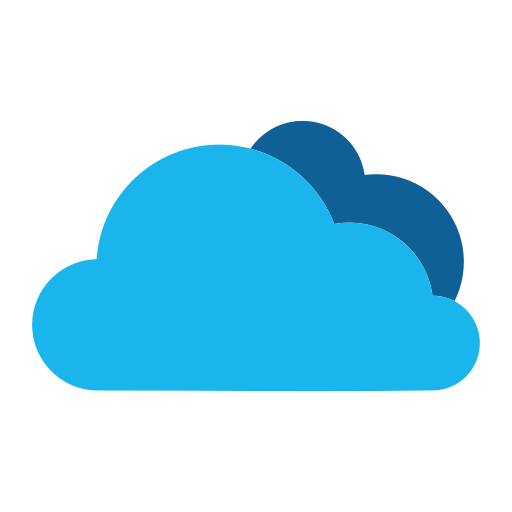
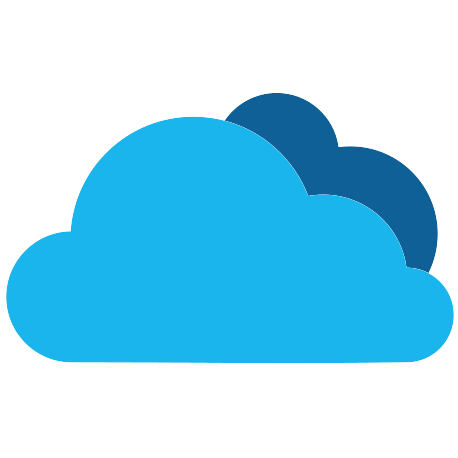
Update weather API UI and functionality

Changed region(s): [[0.0, 0.1834, 1.0, 0.7948]]

diff --git a/11-weatherApi/style.css b/11-weatherApi/style.css
@@ -5,13 +5,19 @@
 }
 
 body {
-    font-family: system-ui, -apple-system, BlinkMacSystemFont, 'Segoe UI', Roboto, Oxygen, Ubuntu, Cantarell, 'Open Sans', 'Helvetica Neue', sans-serif;
+    font-family: system-ui, -apple-system, BlinkMacSystemFont, "Segoe UI",
+        Roboto, Oxygen, Ubuntu, Cantarell, "Open Sans", "Helvetica Neue",
+        sans-serif;
     color: #fff;
-    background: linear-gradient(to bottom, #0ee8e2, #0a5025);
+    background-image: url("https://bit.ly/3Srk0M6");
     background-repeat: no-repeat;
-    min-height: 100vh; 
+    background-size: cover;
+    background-position: center;
+    min-height: 100vh;
     display: flex;
     justify-content: center;
+    align-items: center;
+    margin: 0 auto;
     /* align-items: center; */
 }
 
@@ -23,53 +29,74 @@ img {
 
 .container {
     width: 500px;
-    height: fit-content;
-    margin: 1rem auto;
-    padding: 2rem;
-    background: linear-gradient(45deg, #04f24b 5%, #00d4ff 40%, #02badf 100%);
+    padding: 2rem 0;
+    overflow: hidden;
+
+    background: linear-gradient(to bottom, #0d2143d5, #5c045292);
+    background-repeat: no-repeat;
+    background-size: cover;
+    background-position: center;
     box-shadow: rgba(0, 0, 0, 0.35) 0px 5px 15px;
     display: flex;
     flex-direction: column;
     gap: 1rem;
-    
+    border-radius: 10px;
+    margin: 0 auto;
 
     h1 {
         text-align: center;
         margin-bottom: 2rem;
+
+        span {
+            color: #b901a3;
+            text-decoration: underline #fff 2px;
+            text-underline-offset: 10px;
+            text-shadow: 1px 1px 20px #000;
+        }
     }
 
     .search {
         width: 80%;
-        margin: 1rem auto;
+        margin: 0rem auto;
         display: flex;
-        flex-direction: column;
-        gap: 0.5rem;
+        /* flex-direction: column; */
 
         #city {
-            padding: 10px;
+            padding: 0.8rem;
+            border-top-left-radius: 5px;
+            border-bottom-left-radius: 5px;
+            font-size: 1rem;
 
-            width: 100%;
-            box-shadow: rgba(50, 50, 93, 0.25) 0px 6px 12px -2px, rgba(0, 0, 0, 0.3) 0px 3px 7px -3px;
+            width: 80%;
+            box-shadow: rgba(50, 50, 93, 0.25) 0px 6px 12px -2px,
+                rgba(0, 0, 0, 0.3) 0px 3px 7px -3px;
             outline: none;
             border: none;
 
             &:focus {
-                outline: 2px solid #4978f8;
+                outline: 2px solid #b901a3;
             }
         }
 
         #my-button {
             padding: 10px 20px;
             border: transparent;
-            background-color: #4978f8;
-            
+            background-color: #b901a3;
+            font-size: 1rem;
+            font-weight: 700;
+            text-transform: uppercase;
+            border-top-right-radius: 5px;
+            border-bottom-right-radius: 5px;
+            letter-spacing: 1px;
+
             color: #fff;
-            width: 100%;
-            box-shadow: rgba(50, 50, 93, 0.25) 0px 6px 12px -2px, rgba(0, 0, 0, 0.3) 0px 3px 7px -3px;
+            width: 40%;
+            box-shadow: rgba(50, 50, 93, 0.25) 0px 6px 12px -2px,
+                rgba(0, 0, 0, 0.3) 0px 3px 7px -3px;
 
             &:hover {
                 cursor: pointer;
-                background-color: #025a6a;
+                background-color: #970283;
                 box-shadow: none;
             }
         }
@@ -78,11 +105,17 @@ img {
 
 .weather {
     min-width: 400px;
-    padding-top: 1rem;
 
     h2 {
         text-align: center;
         font-size: 3rem;
+    }
+
+    h3 {
+        text-align: center;
+        font-size: 1.2rem;
+        font-weight: 500;
+        margin-top: -10px;
     }
 
     .weather-info {
@@ -97,18 +130,30 @@ img {
         }
 
         .weather-icon {
-            width: 300px;
-            margin-bottom: 1rem;
+            width: 150px;
+            margin-bottom: 1.5rem;
+        }
+
+        .weather-sunrise-sunset {
+            display: flex;
+            justify-content: center;
+            gap: 1rem;
         }
 
         .temp {
             font-size: 6rem;
-            margin-bottom: 2rem;
+            margin: 2rem;
         }
 
         .temperatures {
             display: flex;
             gap: 1rem;
+
+            .temperatures-minmax {
+                background-color: #5c0452da;
+                padding: 0.5rem 1.5rem;
+                border-radius: 25px;
+            }
         }
 
         p {
@@ -117,9 +162,21 @@ img {
         }
 
         .wind-humidity {
+            display: flex;
+            justify-content: center;
+            gap: 1rem;
             p {
                 text-align: justify;
+                font-size: 1.2rem;
             }
         }
+    }
+}
+
+@media only screen and (max-width: 456px) {
+    .container {
+        height: 100vh;
+        border-radius: 0px;
+        margin: 0 auto;
     }
 }

diff --git a/11-weatherApi/main.js b/11-weatherApi/main.js
@@ -3,39 +3,66 @@ const url = `https://api.openweathermap.org/data/2.5/weather?appid=${apiKey}&uni
 
 const form = document.getElementById("search");
 const weatherDiv = document.querySelector(".weather");
+const container = document.querySelector(".container");
+const body = document.querySelector("body");
 
 //functions
 async function fetchWeatherByCity(url) {
-  try {
-    const response = await fetch(url);
-    const data = await response.json();
-    return data;
-  } catch (error) {
-    console.log(error.message);
-    return error;
-  }
+    try {
+        const response = await fetch(url);
+        const data = await response.json();
+        return data;
+    } catch (error) {
+        console.log(error.message);
+        return error;
+    }
 }
+/* sys
+: 
+{type: 2, id: 2075535, country: 'GB', sunrise: 1706859501, sunset: 1706892588} 
 
+Show me the date in this format: 07:00 or 16:35*/
 function actualWeatherRender(data) {
-  console.log(data.weather[0].main);
-  weatherDiv.innerHTML = `
+    console.log(data.weather[0].main);
+    weatherDiv.innerHTML = `
         <h2>${data.name}</h2>
+        <h3>(${data.sys.country})</h3>
         <div class="weather-info">
+        
             <div class="weather-icon">
                 <img src="./utilities/images/${
-                  data.weather[0].main
+                    data.weather[0].main
                 }.png" alt = "" />
             </div>
-            <div>
+
+            
+            <div class="temp-container">
                 <p class="temp">${Math.round(data.main.temp)}°C</p>
+
                 <div class="temperatures">
-                    <p><strong>Min:</strong> ${Math.round(
-                      data.main.temp_min
+                    <p class="temperatures-minmax"><strong>Min:</strong> ${Math.round(
+                        data.main.temp_min
                     )}°C</p>
-                    <p><strong>Max:</strong> ${Math.round(
-                      data.main.temp_max
+                    <p class="temperatures-minmax"><strong>Max:</strong> ${Math.round(
+                        data.main.temp_max
                     )}°C</p>
                 </div>
+            </div>
+
+            <div class="weather-sunrise-sunset">
+                <p><strong>Sunrise:</strong> ${new Date(
+                    data.sys.sunrise * 1000
+                ).toLocaleTimeString("en-GB", {
+                    hour: "2-digit",
+                    minute: "2-digit",
+                })}</p>
+                <p><strong>Sunset:</strong> ${new Date(
+                    data.sys.sunset * 1000
+                ).toLocaleTimeString("en-GB", {
+                    hour: "2-digit",
+                    minute: "2-digit",
+                })}</p>
+                
             </div>
             <div class="wind-humidity">
                 <p><strong>Humidity:</strong> ${data.main.humidity}%</p>
@@ -44,17 +71,29 @@ function actualWeatherRender(data) {
         </div>
 
     `;
+
+    if (data.weather[0].main === "Clouds") {
+        body.style.backgroundImage = "url('https://bit.ly/48PdDcB')";
+    } else if (data.weather[0].main === "Clear") {
+        body.style.backgroundImage = "url('https://bit.ly/42quDnh')";
+    } else if (data.weather[0].main === "Rain") {
+        body.style.backgroundImage = "url('https://bit.ly/4bjmqFl')";
+    } else if (data.weather[0].main === "Snow") {
+        body.style.backgroundImage = "url('https://bit.ly/3w18Gik')";
+    } else if (data.weather[0].main === "Mist") {
+        body.style.backgroundImage = "url('https://bit.ly/49kfAha')";
+    }
 }
 
 // event listener
 form.addEventListener("submit", async (event) => {
-  event.preventDefault();
-  const city = document.getElementById("city").value;
-  const data = await fetchWeatherByCity(url + city);
-  console.log(data);
-  if (parseInt(data.cod) < 400) {
-    actualWeatherRender(data);
-  } else {
-    weatherDiv.innerHTML = `<h2 class="error">${data.message}</h2>`;
-  }
+    event.preventDefault();
+    const city = document.getElementById("city").value;
+    const data = await fetchWeatherByCity(url + city);
+    console.log(data);
+    if (parseInt(data.cod) < 400) {
+        actualWeatherRender(data);
+    } else {
+        weatherDiv.innerHTML = `<h2 class="error">${data.message}</h2>`;
+    }
 });

diff --git a/11-weatherApi/index.html b/11-weatherApi/index.html
@@ -9,7 +9,7 @@
   </head>
   <body>
     <div class="container">
-      <h1>My Weather Api</h1>
+      <h1>My <span>Weather</span> Api</h1>
       <form class="search" id="search">
         <input
           type="text"
@@ -23,17 +23,24 @@
 
       <div class="weather">
         <h2>Chivilcoy</h2>
+        <h3>AR</h3>
         <div class="weather-info">
             <div class="weather-icon">
                 <img src="./utilities/images/cloud-sun.png" alt = "" />
             </div>
-            <div>
+
+            <div class="temp-container">
                 <p class="temp">25°C</p>
                 <div class="temperatures">
-                    <p><strong>Min:</strong> 22°C</p>
-                    <p><strong>Max:</strong> 28°C</p>
+                    <p class="temperatures-minmax"><strong>Min:</strong> 22°C</p>
+                    <p class="temperatures-minmax"><strong>Max:</strong> 28°C</p>
                 </div>
             </div>
+            <div class="weather-sunrise-sunset">
+              <p><strong>Sunrise:</strong> 05:56</p>
+              <p><strong>Sunset:</strong> 21:12</p>
+              
+          </div>
             <div class="wind-humidity">
                 <p><strong>Humidity:</strong> 65%</p>
                 <p><strong>Wind speed:</strong> 7.5 km/h</p>
